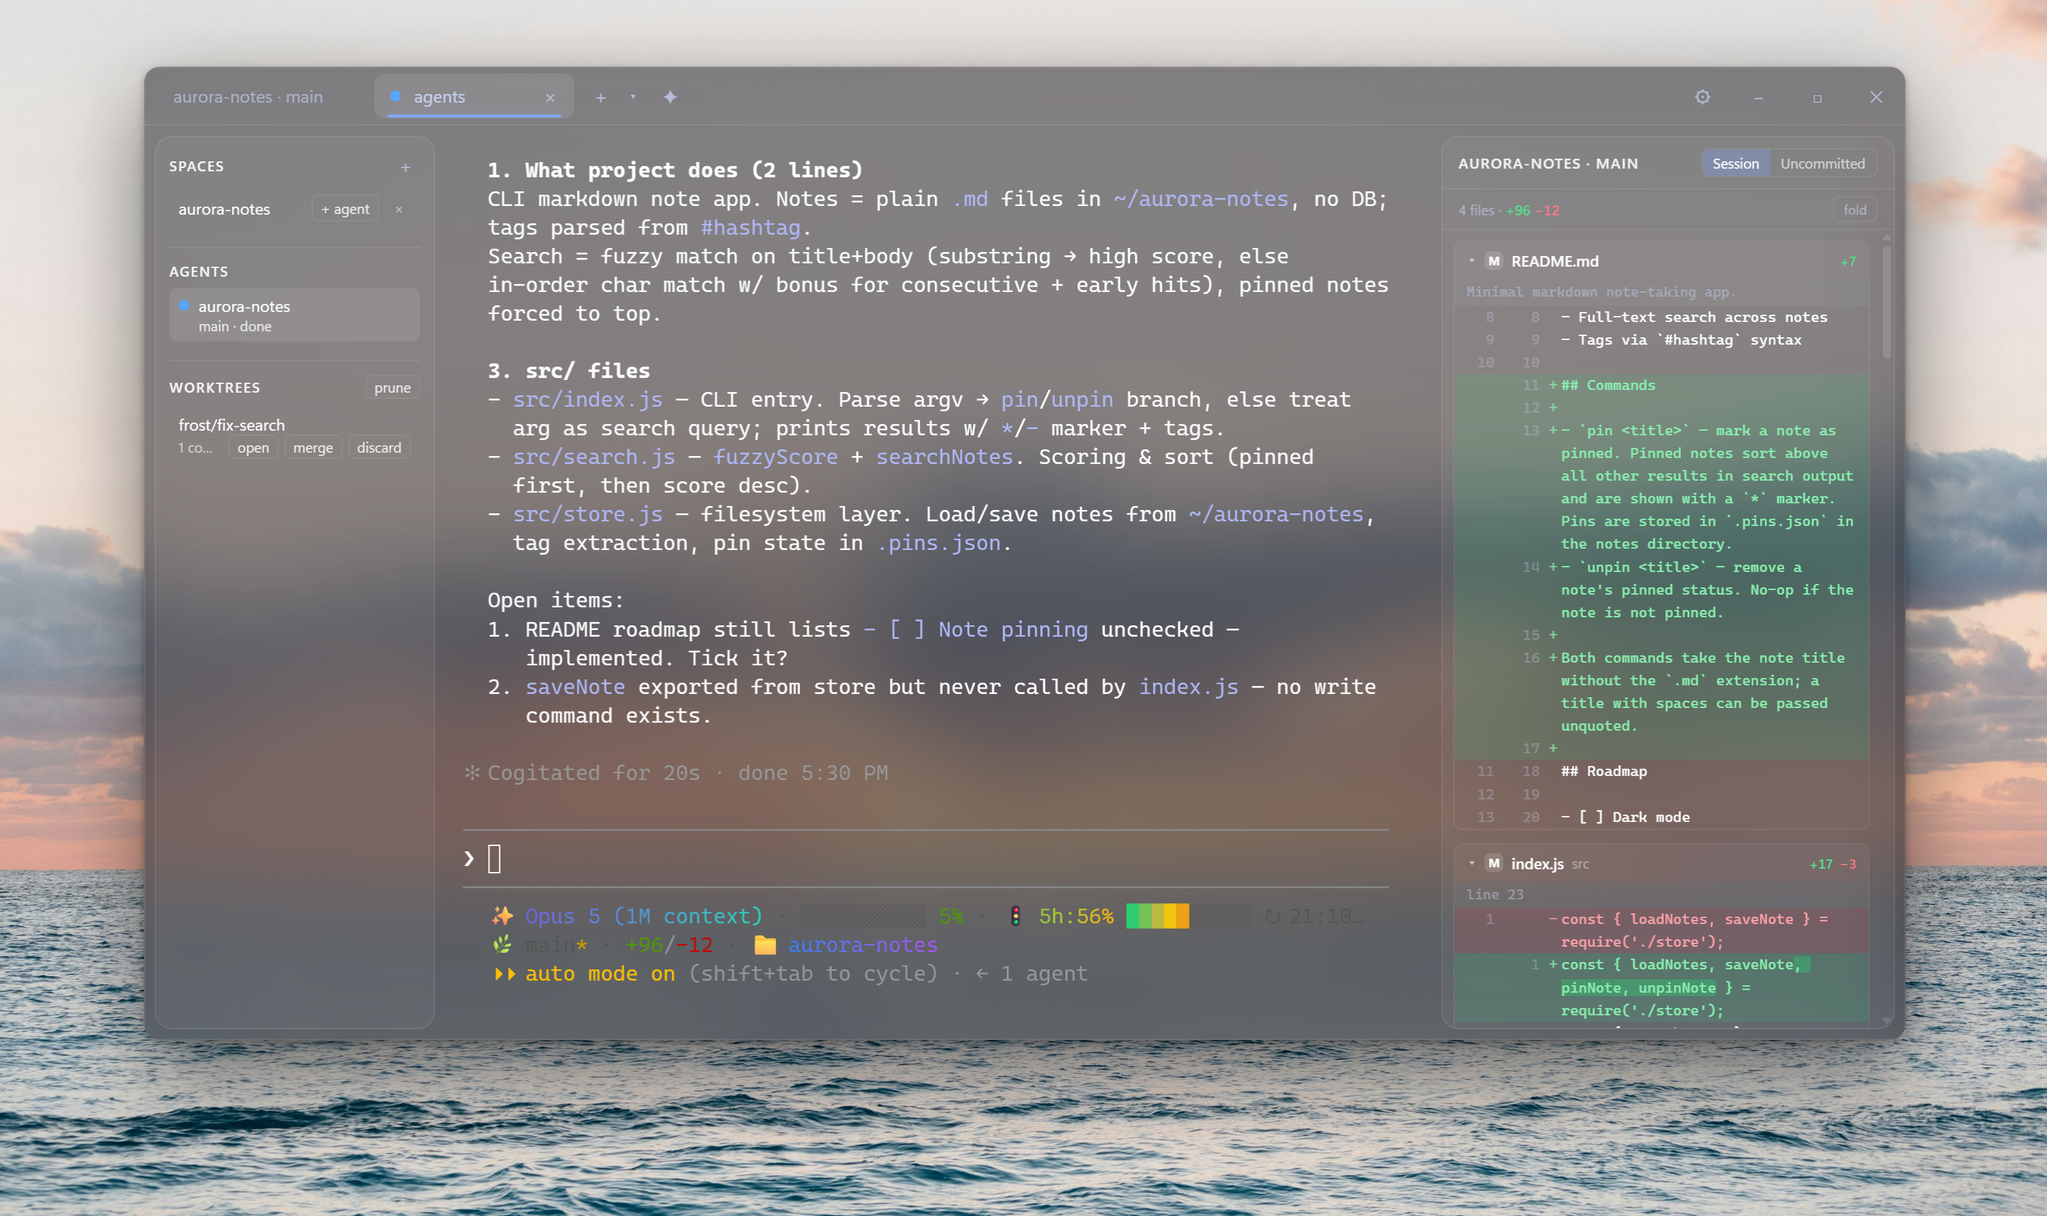
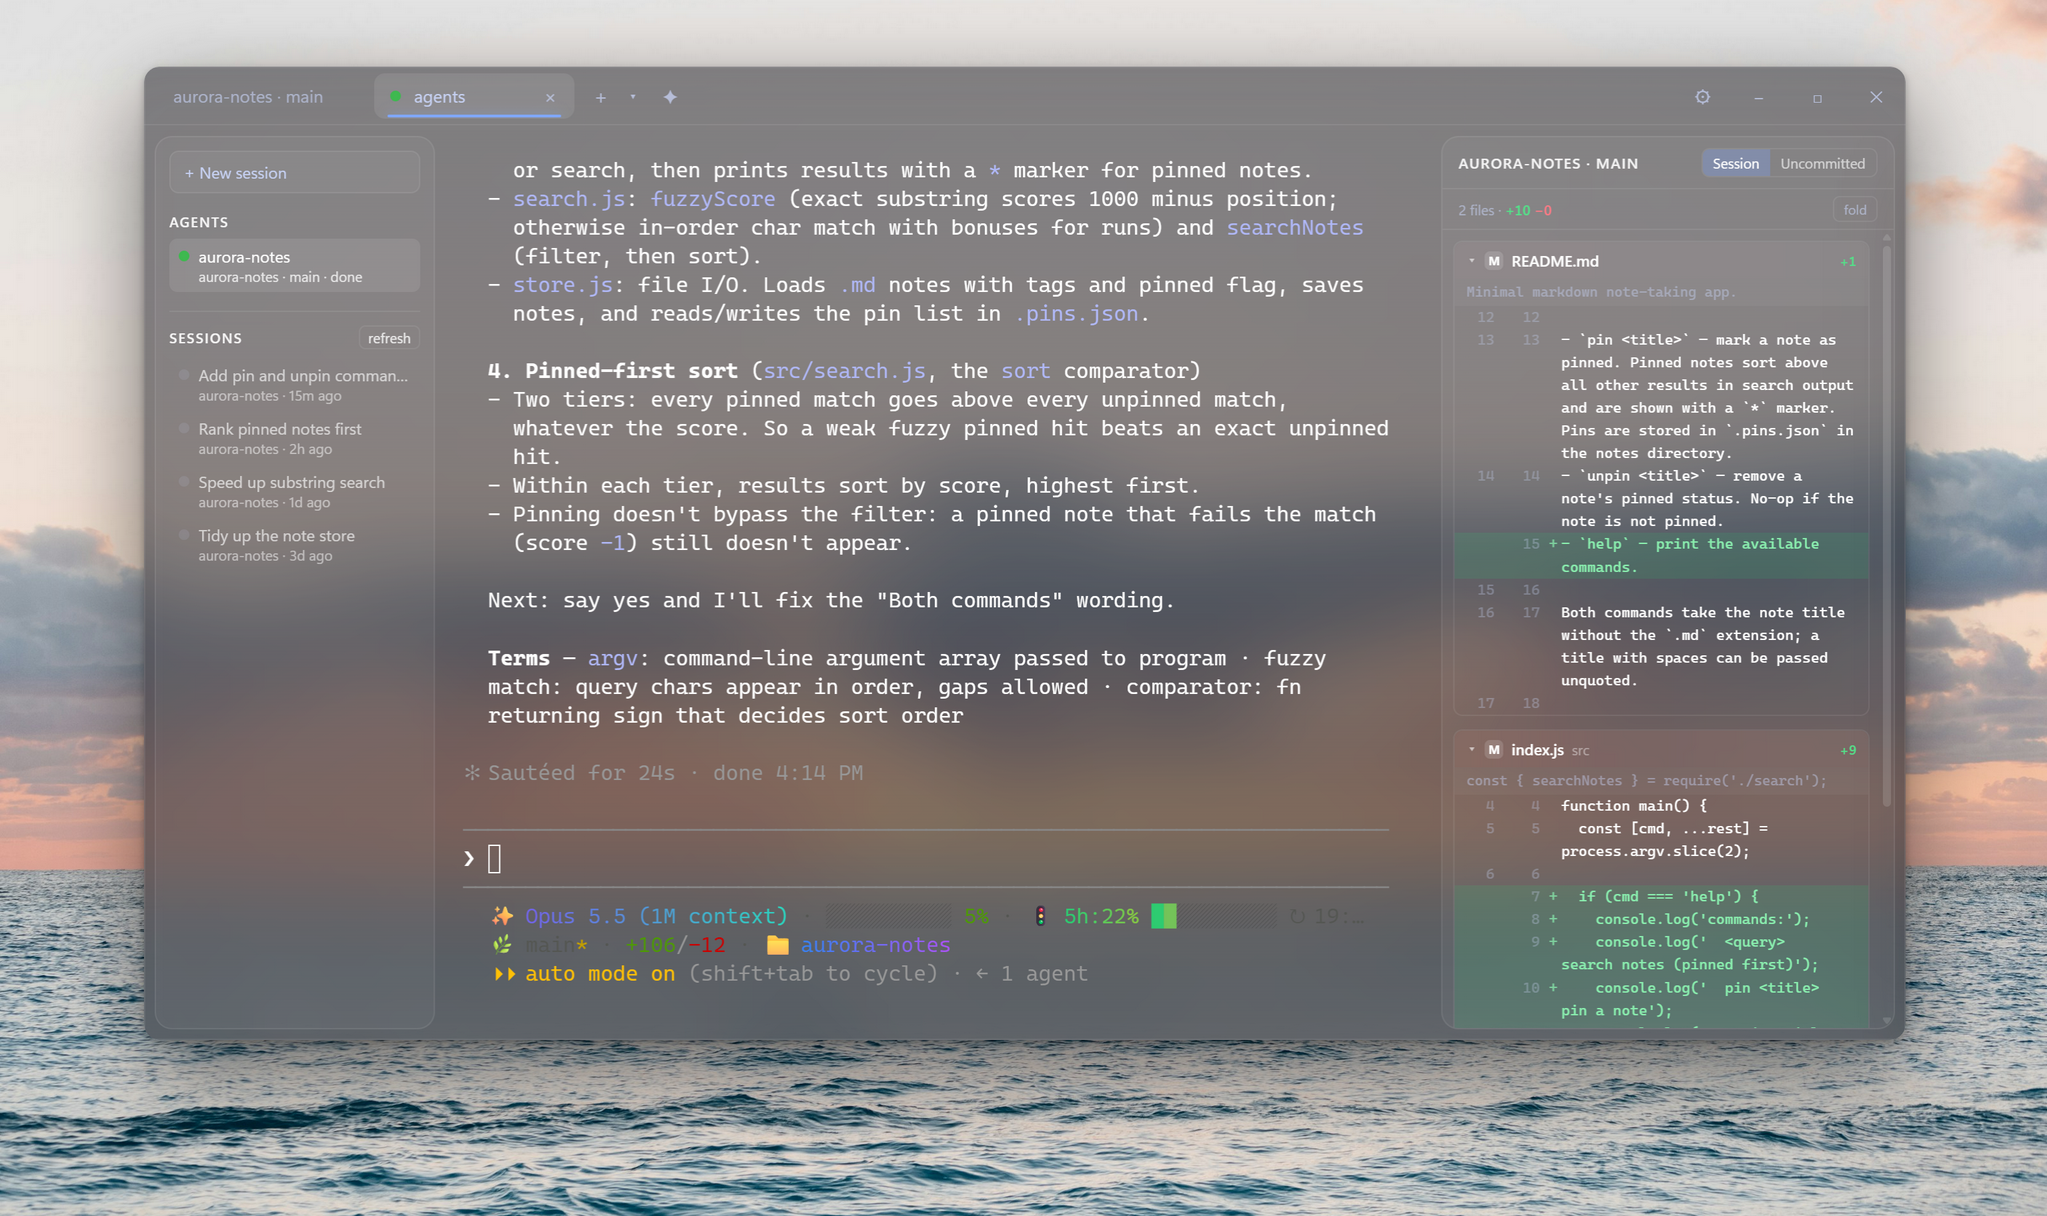
Retake the agent screenshot with the sessions rail
The screenshot tool now hands Frost a sandbox Claude directory, so the
Sessions list can only show demo-repo sessions, staged with /rename-style
titles. A scenario is refused before capture if any session or agent on
screen belongs to another folder. The agent scenario asks for a change the
demo repo doesn't have yet, since the Session diff only shows what changed
after claude started.

diff --git a/tools/shots.js b/tools/shots.js
@@ -220,8 +220,41 @@ function ensureNotes() {
   return dir;
 }
 
+// Frost's Sessions list reads Claude Code's history, and the real one holds
+// every project on this machine — none of which belongs in a README image. Each
+// scenario gets a sandbox of its own instead, empty unless the scenario asks
+// for sessions, and those are demo-repo sessions only. Nothing in here runs:
+// it is what the list reads, a folder and a title per session, the title as
+// /rename would have left it.
+const STAGED_SESSIONS = [
+  { title: 'Add pin and unpin commands', ago: 14 * 60e3 },
+  { title: 'Rank pinned notes first', ago: 2 * 3600e3 },
+  { title: 'Speed up substring search', ago: 26 * 3600e3 },
+  { title: 'Tidy up the note store', ago: 3 * 86400e3 }
+];
+
+function scenarioClaudeDir(dir, scenario) {
+  fs.rmSync(dir, { recursive: true, force: true });
+  const project = path.join(dir, 'projects', DEMO.replace(/[^A-Za-z0-9]/g, '-'));
+  fs.mkdirSync(project, { recursive: true });
+  if (!scenario.sessions) return dir;
+  STAGED_SESSIONS.forEach(({ title, ago }, i) => {
+    const id = `5eed0000-0000-4000-8000-${String(i + 1).padStart(12, '0')}`;
+    const file = path.join(project, id + '.jsonl');
+    const lines = [
+      { type: 'user', cwd: DEMO, sessionId: id, gitBranch: 'main', message: { role: 'user', content: title } },
+      { type: 'custom-title', customTitle: title, sessionId: id }
+    ];
+    fs.writeFileSync(file, lines.map((l) => JSON.stringify(l)).join('\n') + '\n');
+    const when = new Date(Date.now() - ago);
+    fs.utimesSync(file, when, when);
+  });
+  return dir;
+}
+
 async function captureScenario(scenario, wallpaperFile, bounds, port) {
   const configDir = scenarioConfig(path.join(TMP, 'config-' + scenario.name), scenario);
+  const claudeDir = scenarioClaudeDir(path.join(TMP, 'claude-' + scenario.name), scenario);
   const userData = path.join(TMP, 'userdata-' + scenario.name);
   fs.rmSync(path.join(configDir, 'window.json'), { force: true });
 
@@ -235,6 +268,7 @@ async function captureScenario(scenario, wallpaperFile, bounds, port) {
       stdio: ['ignore', 'pipe', 'pipe'],
       env: scenarioEnv({
         configDir,
+        claudeDir,
         wallpaper: wallpaperFile,
         bounds
       })
@@ -268,6 +302,21 @@ async function captureScenario(scenario, wallpaperFile, bounds, port) {
             'which would put the account name and organisation in the image'
         );
       }
+    }
+
+    // Every session and agent the rail could show has to be the demo repo's.
+    // The sandbox should already guarantee it; this is what proves it, and a
+    // stray one fails the scenario rather than reaching the image.
+    const foreign = await dbg.eval(`(() => {
+      const demo = ${JSON.stringify(DEMO.toLowerCase())};
+      const dirs = [
+        ...(typeof claudeSessions === 'undefined' ? [] : claudeSessions.map((s) => s.cwd)),
+        ...(typeof globalAgents === 'undefined' ? [] : [...globalAgents.values()].map((a) => a.cwd))
+      ];
+      return dirs.filter((d) => !String(d || '').toLowerCase().startsWith(demo));
+    })()`);
+    if (foreign.length) {
+      throw new Error(`refusing to capture: ${foreign.length} session(s) outside the demo repo would be on screen`);
     }
 
     const shot = await dbg.send('Page.captureScreenshot', { format: 'png' });

diff --git a/tools/shots/scenarios.js b/tools/shots/scenarios.js
@@ -104,6 +104,7 @@ module.exports = [
     photo: 'ocean-dusk',
     wallpaper: 'pine',
     spaces: true,
+    sessions: true, // staged demo-repo sessions for the Sessions list
     theme: { autoDetectAgents: true },
     setup: `(async () => {
       ${RUN}
@@ -154,7 +155,10 @@ module.exports = [
 
       await ask('Read README.md and src/search.js, then tell me in two lines what this project does.');
       await pause(1500);
-      await ask('Document the pin and unpin commands in README.md under a new "Commands" heading.');
+      // Something still to do in the demo repo: the Session diff only shows what
+      // changed after claude started, so a task already done there leaves it
+      // empty.
+      await ask('Add a "help" command to src/index.js that prints the available commands, and list it under Commands in README.md.');
       await pause(2500);
 
       // The banner sits in the scrollback until enough output pushes it off the

diff --git a/src/main/main.js b/src/main/main.js
@@ -1959,7 +1959,11 @@ ipcMain.handle('agents:spawn', (_e, { spacePath }) => {
 // the newest few, and only their ends — a transcript runs to megabytes, but the
 // cwd sits near the top and the title near the bottom.
 
-const CLAUDE_DIR = process.env.CLAUDE_CONFIG_DIR || path.join(require('os').homedir(), '.claude');
+// The screenshot tool points this at a sandbox, so the sessions list in a
+// README image can only ever show the demo repo. claude itself keeps the real
+// directory — its login lives there.
+const CLAUDE_DIR =
+  SHOT?.claudeDir || process.env.CLAUDE_CONFIG_DIR || path.join(require('os').homedir(), '.claude');
 const CLAUDE_PROJECTS = path.join(CLAUDE_DIR, 'projects');
 const SESSION_LIMIT = 15;
 const sessionCache = new Map(); // file -> { mtimeMs, info }
